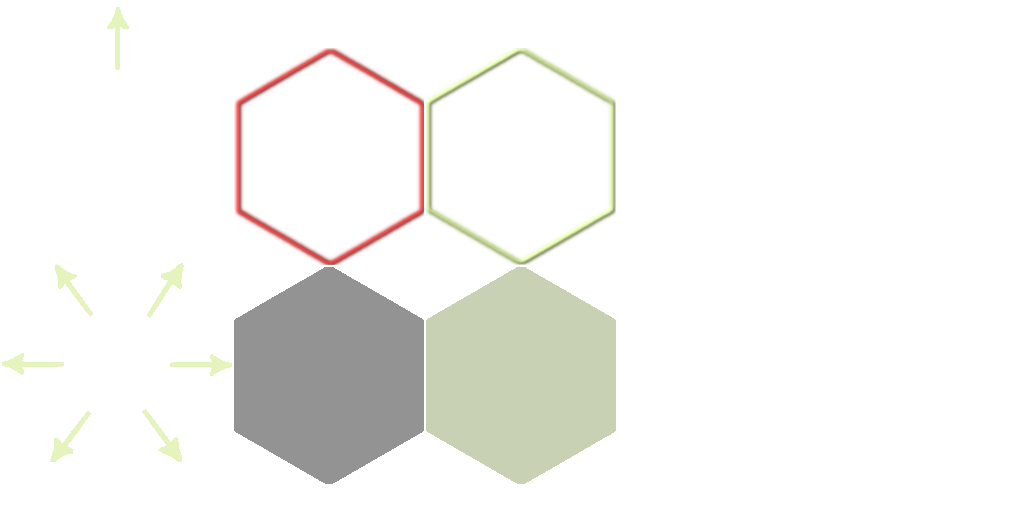
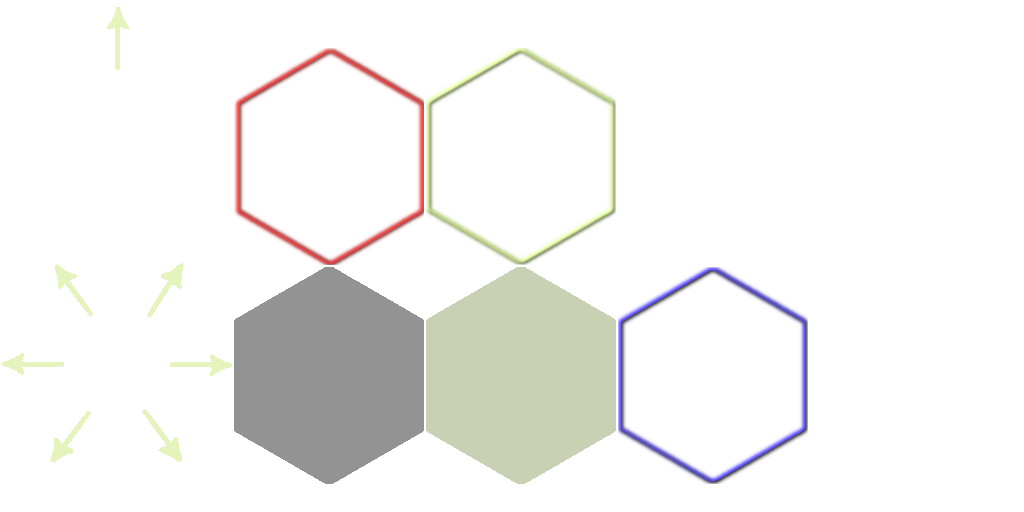
Hex,Map: add Hex.OBJECTIVE, howObjective(Hex) hideObjective(Hex)

Changed region(s): [[0.5938, 0.5, 0.7812, 0.9688], [0.7812, 0.625, 0.8125, 0.8438]]

diff --git a/core/src/ch/asynk/tankontank/game/Map.java b/core/src/ch/asynk/tankontank/game/Map.java
@@ -319,6 +319,8 @@ public abstract class Map extends Board
     public void showBreakPawns()        { breakPawns.enable(Unit.MOVE, true); }
     public void hideBreakPawns()        { breakPawns.enable(Unit.MOVE, false); }
 
+    public void showObjective(Hex hex)  { enableOverlayOn(hex, Hex.OBJECTIVE, true); }
+    public void hideObjective(Hex hex)  { enableOverlayOn(hex, Hex.OBJECTIVE, true); }
 
     public void selectHex(Hex hex)      { enableOverlayOn(hex, Hex.SELECT, true); }
     public void unselectHex(Hex hex)    { enableOverlayOn(hex, Hex.SELECT, false); }

diff --git a/core/src/ch/asynk/tankontank/game/Hex.java b/core/src/ch/asynk/tankontank/game/Hex.java
@@ -28,6 +28,7 @@ public class Hex extends Tile
     public static final int MOVE        = 3;
     public static final int DIRECTIONS  = 4;
     public static final int ORIENTATION = 5;
+    public static final int OBJECTIVE   = 6;
 
     public Terrain terrain;
     public int roads;
